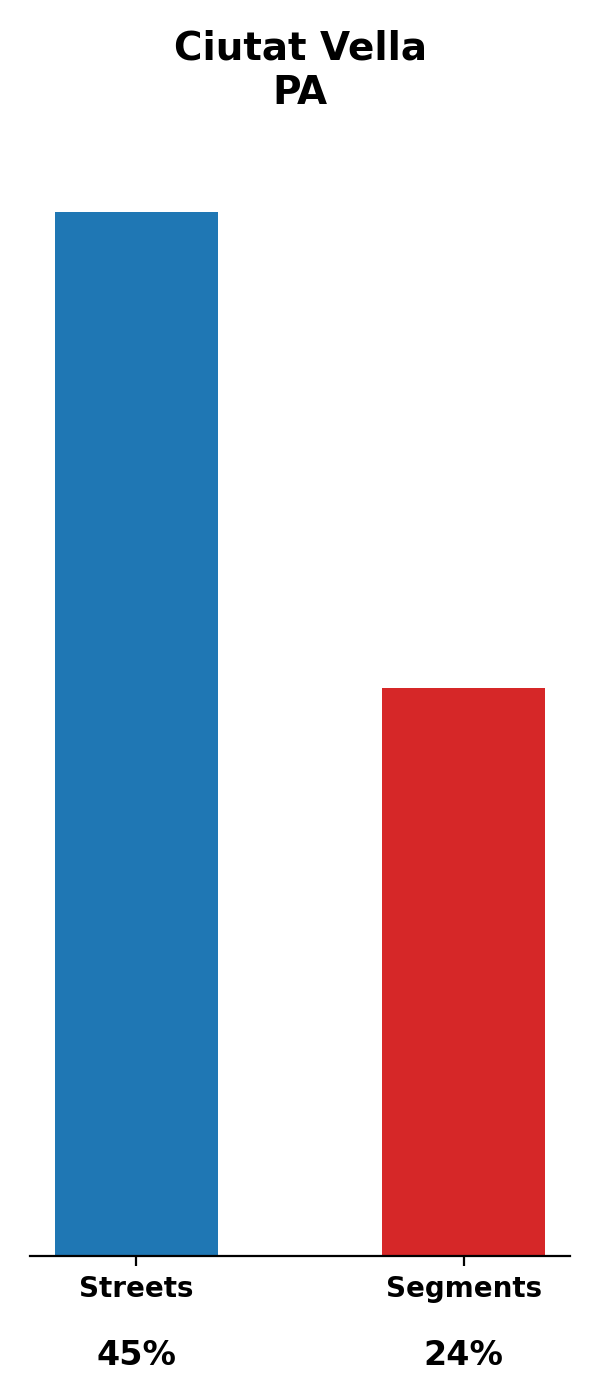
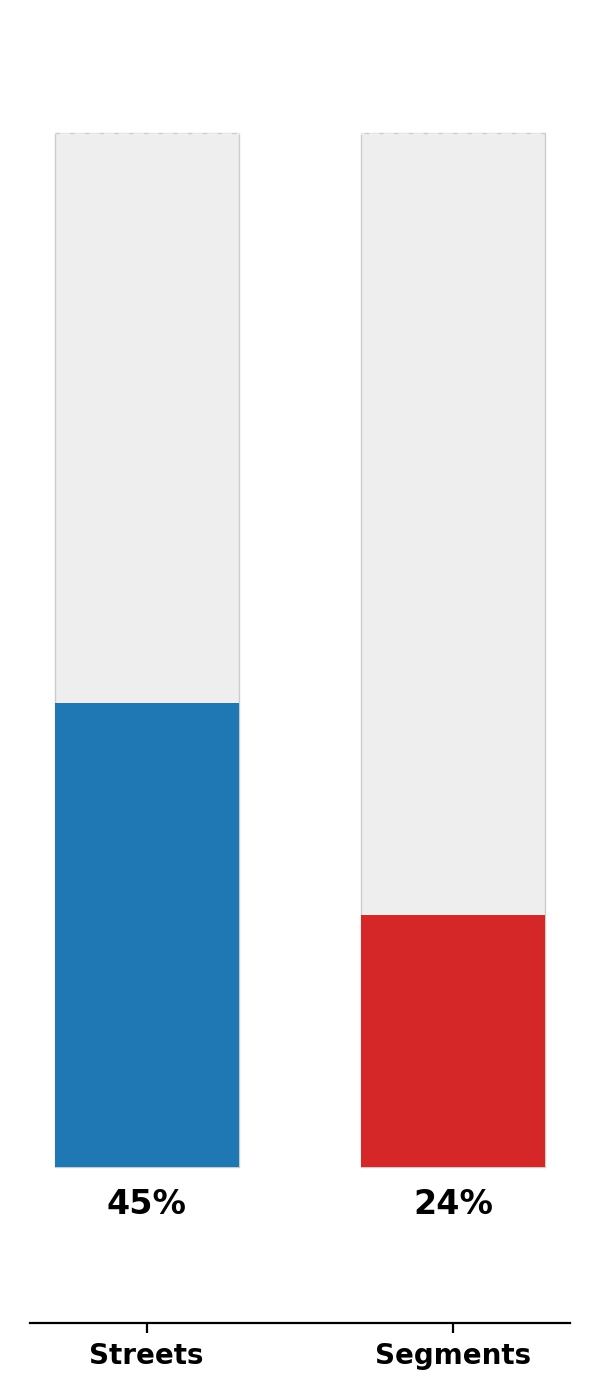
Adjust stats bars

Changed region(s): [[0.09, 0.1229, 0.42, 0.9829], [0.6, 0.4914, 0.93, 0.9829], [0.3, 0.0, 0.72, 0.0921]]

diff --git a/functions.js b/functions.js
@@ -42,8 +42,19 @@ function render() {
 
   // 2. Main Picture
   const mainPicElem = document.getElementById("main_pic");
-  if (mainPicElem) {
-    mainPicElem.src = `plots/${currentUser}/${currentDistrict}-${currentUser}.png`;
+  const barPicElem = document.getElementById("bar_pic");
+  if (currentUser !== "Comparison") {
+    if (barPicElem) {
+      barPicElem.style.display = "block";
+      barPicElem.src = `stats/${currentUser}/stats_bars_${currentDistrict}_${currentUser}.png`;
+    }
+    if (mainPicElem) {
+      mainPicElem.src = `plots/${currentUser}/${currentDistrict}-${currentUser}.png`;
+    }
+  } else {
+    // Hide the top-section side bar when in Comparison mode
+    if (barPicElem) barPicElem.style.display = "none";
+    if (mainPicElem) mainPicElem.src = `plots/${currentUser}/${currentDistrict}-${currentUser}.png`;
   }
 
   // 3. Comparison Section Logic
@@ -53,6 +64,8 @@ function render() {
 
   if (currentUser === "Comparison") {
     compSection.style.display = "flex";
+    document.getElementById("bar_hubert").src = `stats/Hubert/stats_bars_${currentDistrict}_Hubert.png`;
+    document.getElementById("bar_pa").src = `stats/PA/stats_bars_${currentDistrict}_PA.png`;
     compLeft.src = `plots/Hubert/${currentDistrict}-Hubert.png`;
     compRight.src = `plots/PA/${currentDistrict}-PA.png`;
   } else {
@@ -63,7 +76,11 @@ function render() {
   const tableStatsElem = document.getElementById("table_stats");
  if (currentUser != "Comparison") {
   if (tableStatsElem) {
-    tableStatsElem.src = `stats/${currentUser}/stats-${currentDistrict}-${currentUser}.png`;
+    if (currentDistrict == "Barcelona") {
+      tableStatsElem.src = `stats/${currentUser}/stats-${currentUser}.png`;
+    } else {
+      tableStatsElem.src = `stats/${currentUser}/stats-${currentDistrict}-${currentUser}.png`;
+    }
   }
  } else {
    tableStatsElem.style.display = "none";

diff --git a/index.html b/index.html
@@ -17,20 +17,25 @@
     <div class="district-nav" id="districtNav"></div>
   </header>
 
-  <!-- 🖼 Main layout -->
   <div class="top-section">
-    <img id="bar" />
+    <img id="bar_pic" class="side-bar" />
     <img id="main_pic" />
   </div>
 
   <div id="comparison_section" class="comparison-container" style="display: none;">
     <div class="comparison-column">
-      <h3>Hubert</h3>
-      <img id="comp_left" />
+      <!-- <h3>Hubert</h3> -->
+      <div style="display: flex; align-items: center;">
+         <img id="comp_left" style="width: 70%;" />
+         <img id="bar_hubert" style="width: 25%; margin-left: 5px;" />
+      </div>
     </div>
     <div class="comparison-column">
-      <h3>PA</h3>
-      <img id="comp_right" />
+      <!-- <h3>PA</h3> -->
+      <div style="display: flex; align-items: center; flex-direction: row-reverse;">
+         <img id="comp_right" style="width: 70%;" />
+         <img id="bar_pa" style="width: 25%; margin-right: 5px;" />
+      </div>
     </div>
   </div>
   

diff --git a/styles.css b/styles.css
@@ -57,6 +57,14 @@ header button:hover,
   background: #777;
 }
 
+
+.side-bar {
+  max-height: 90vh; /* Adjust this to match your map's visual height */
+  width: auto;
+  margin-right: 20px;
+  display: block;
+}
+
 /* 🖼 Main Image Section */
 .top-section {
   display: flex;

diff --git a/utils.py b/utils.py
@@ -418,7 +418,12 @@ def merge_edges(edge_colors_pa,edge_colors_hubert):
     return merged_colors
 
 def plot_district_user_bars(df, user, district):
+    """
+    Generates and saves a two-bar vertical chart where colors 'fill' 
+    a 100% background bar.
+    """
     try:
+        # Handle district filtering
         dist_data = filter_df_for_district(df, df['districts'].tolist(), district).iloc[0]
     except (IndexError, KeyError):
         return
@@ -429,37 +434,52 @@ def plot_district_user_bars(df, user, district):
     labels = ['Streets', 'Segments']
     values = [percentage_street, percentage_segments]
     
+    # Determine fill colors
     bar_colors = ['tab:blue', 'tab:red']
 
-    # Increased figure height slightly to accommodate the title
+    # Create the plot
     fig, ax = plt.subplots(figsize=(3, 7)) 
     
-    # Remove axis but keep the space for labels/titles
+    # Clean up the axis
     ax.spines['top'].set_visible(False)
     ax.spines['right'].set_visible(False)
     ax.spines['left'].set_visible(False)
     ax.get_yaxis().set_visible(False)
+    ax.set_ylim(-15, 110) # Room for labels below and title above
 
     positions = np.arange(len(labels))
-    bars = ax.bar(positions, values, width=0.5, color=bar_colors)
+    bar_width = 0.6
 
-    ax.set_title(f"{district.replace('_', ' ')}\n{user}", fontsize=14, fontweight='bold', pad=20)
+    # 1. Draw the BACKGROUND bars (the 100% "container")
+    ax.bar(positions, [100, 100], width=bar_width, color='#eeeeee', 
+           edgecolor='#cccccc', linewidth=0.5)
 
+    # 2. Draw the FILL bars (the actual data)
+    bars = ax.bar(positions, values, width=bar_width, color=bar_colors)
+
+    # Add the Title
+ #   ax.set_title(f"{district.replace('_', ' ')}\n{user}", fontsize=14, fontweight='bold', pad=25)
+
+    # Add percentage labels below the bars
     for bar, value in zip(bars, values):
         ax.text(bar.get_x() + bar.get_width() / 2, 
-                -5, 
+                -2, # Just below the baseline
                 f"{value:.0f}%", 
                 ha='center', va='top', fontsize=12, fontweight='bold')
 
-    # Add category labels (Streets/Segments) under the percentages
+    # Add category labels (Streets/Segments)
     ax.set_xticks(positions)
     ax.set_xticklabels(labels, fontsize=10, fontweight='bold')
+    
+    # Optional: Add a "100%" markers or light grid line at the top
+    ax.axhline(100, color='white', linewidth=1, linestyle='--', alpha=0.5)
 
     plt.tight_layout()
 
+    # Save the file
     os.makedirs(os.path.join("stats", user), exist_ok=True)
     clean_dist = district.replace(' ', '_')
-    output_filename = os.path.join(stats_dir, user, f"stats_bars_{clean_dist}_{user}.png")
+    output_filename = os.path.join("stats", user, f"stats_bars_{clean_dist}_{user}.png")
     
     fig.savefig(output_filename, dpi=200)
     plt.close()

diff --git a/generate_stats.py b/generate_stats.py
@@ -129,11 +129,9 @@ for user in users:
         if user != "Comparison":
             for district in list_districts:
                 plot_district_user_bars(
-                    final_table, # The unstyled stats DataFrame
+                    final_table,
                     user,
                     district,
-                    color, # Pass the input color for green handling
-                    "stats", # Root stats directory
                 )
 
 for district in list_districts:
